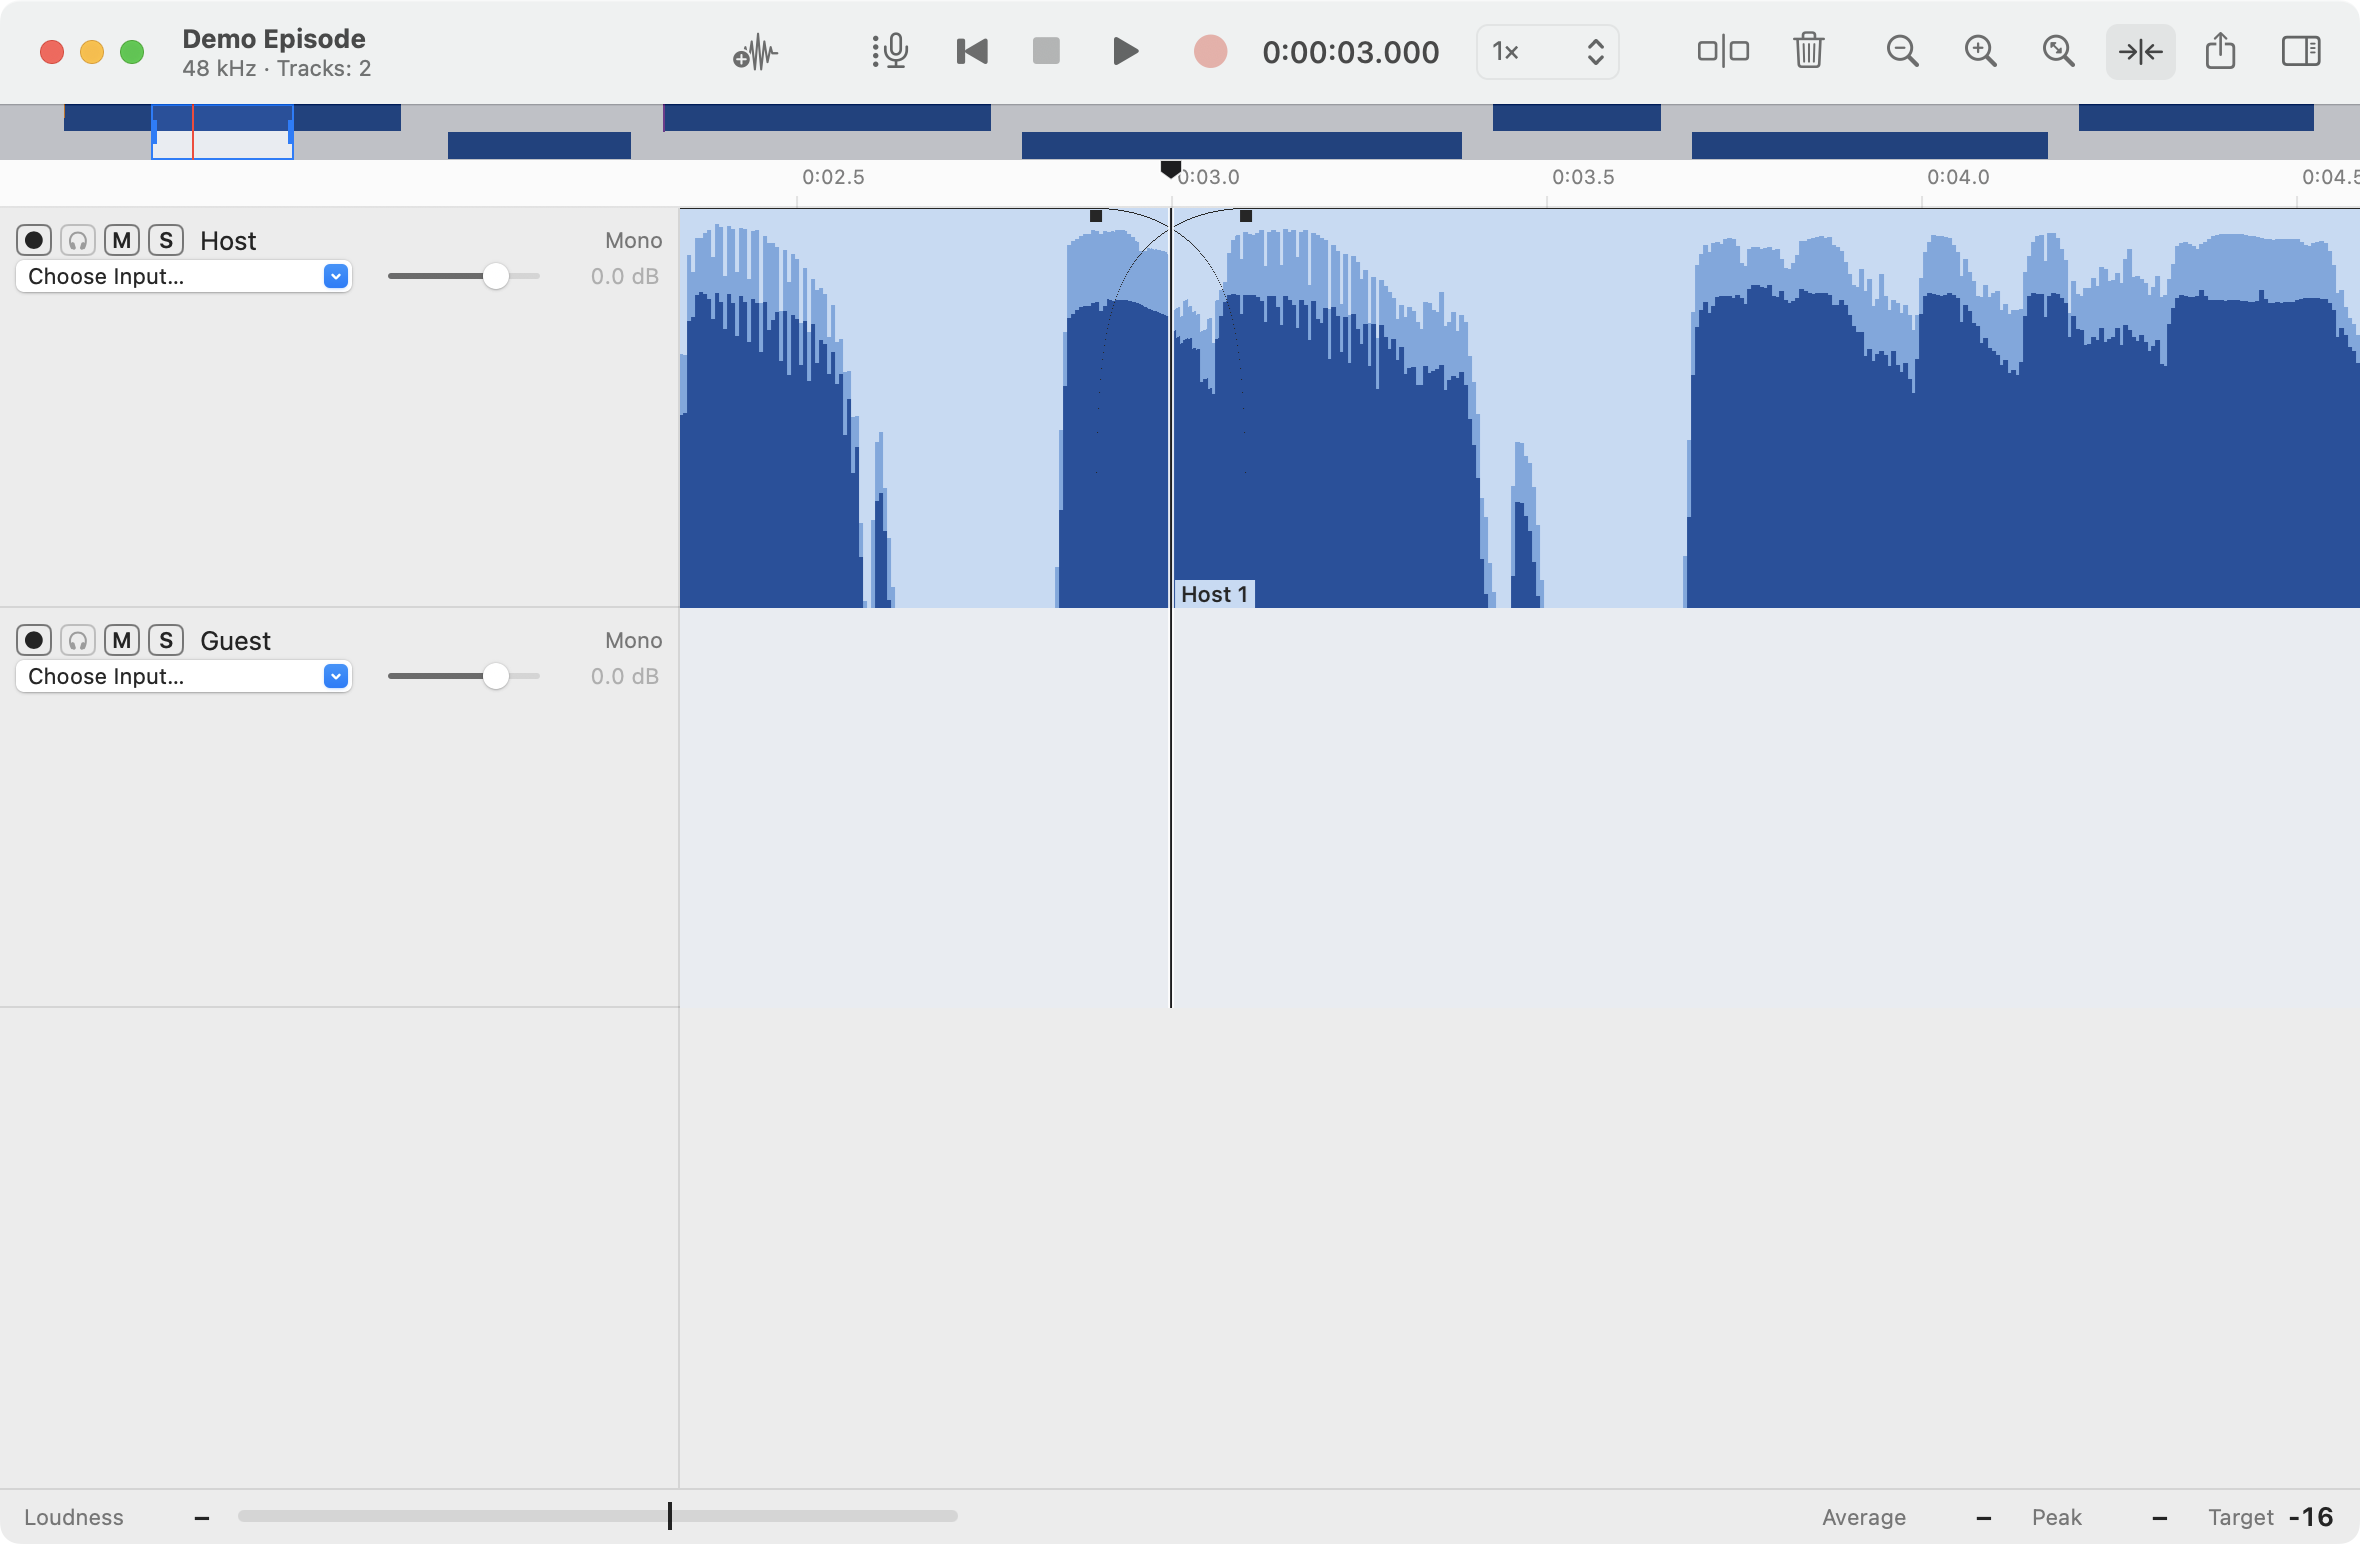
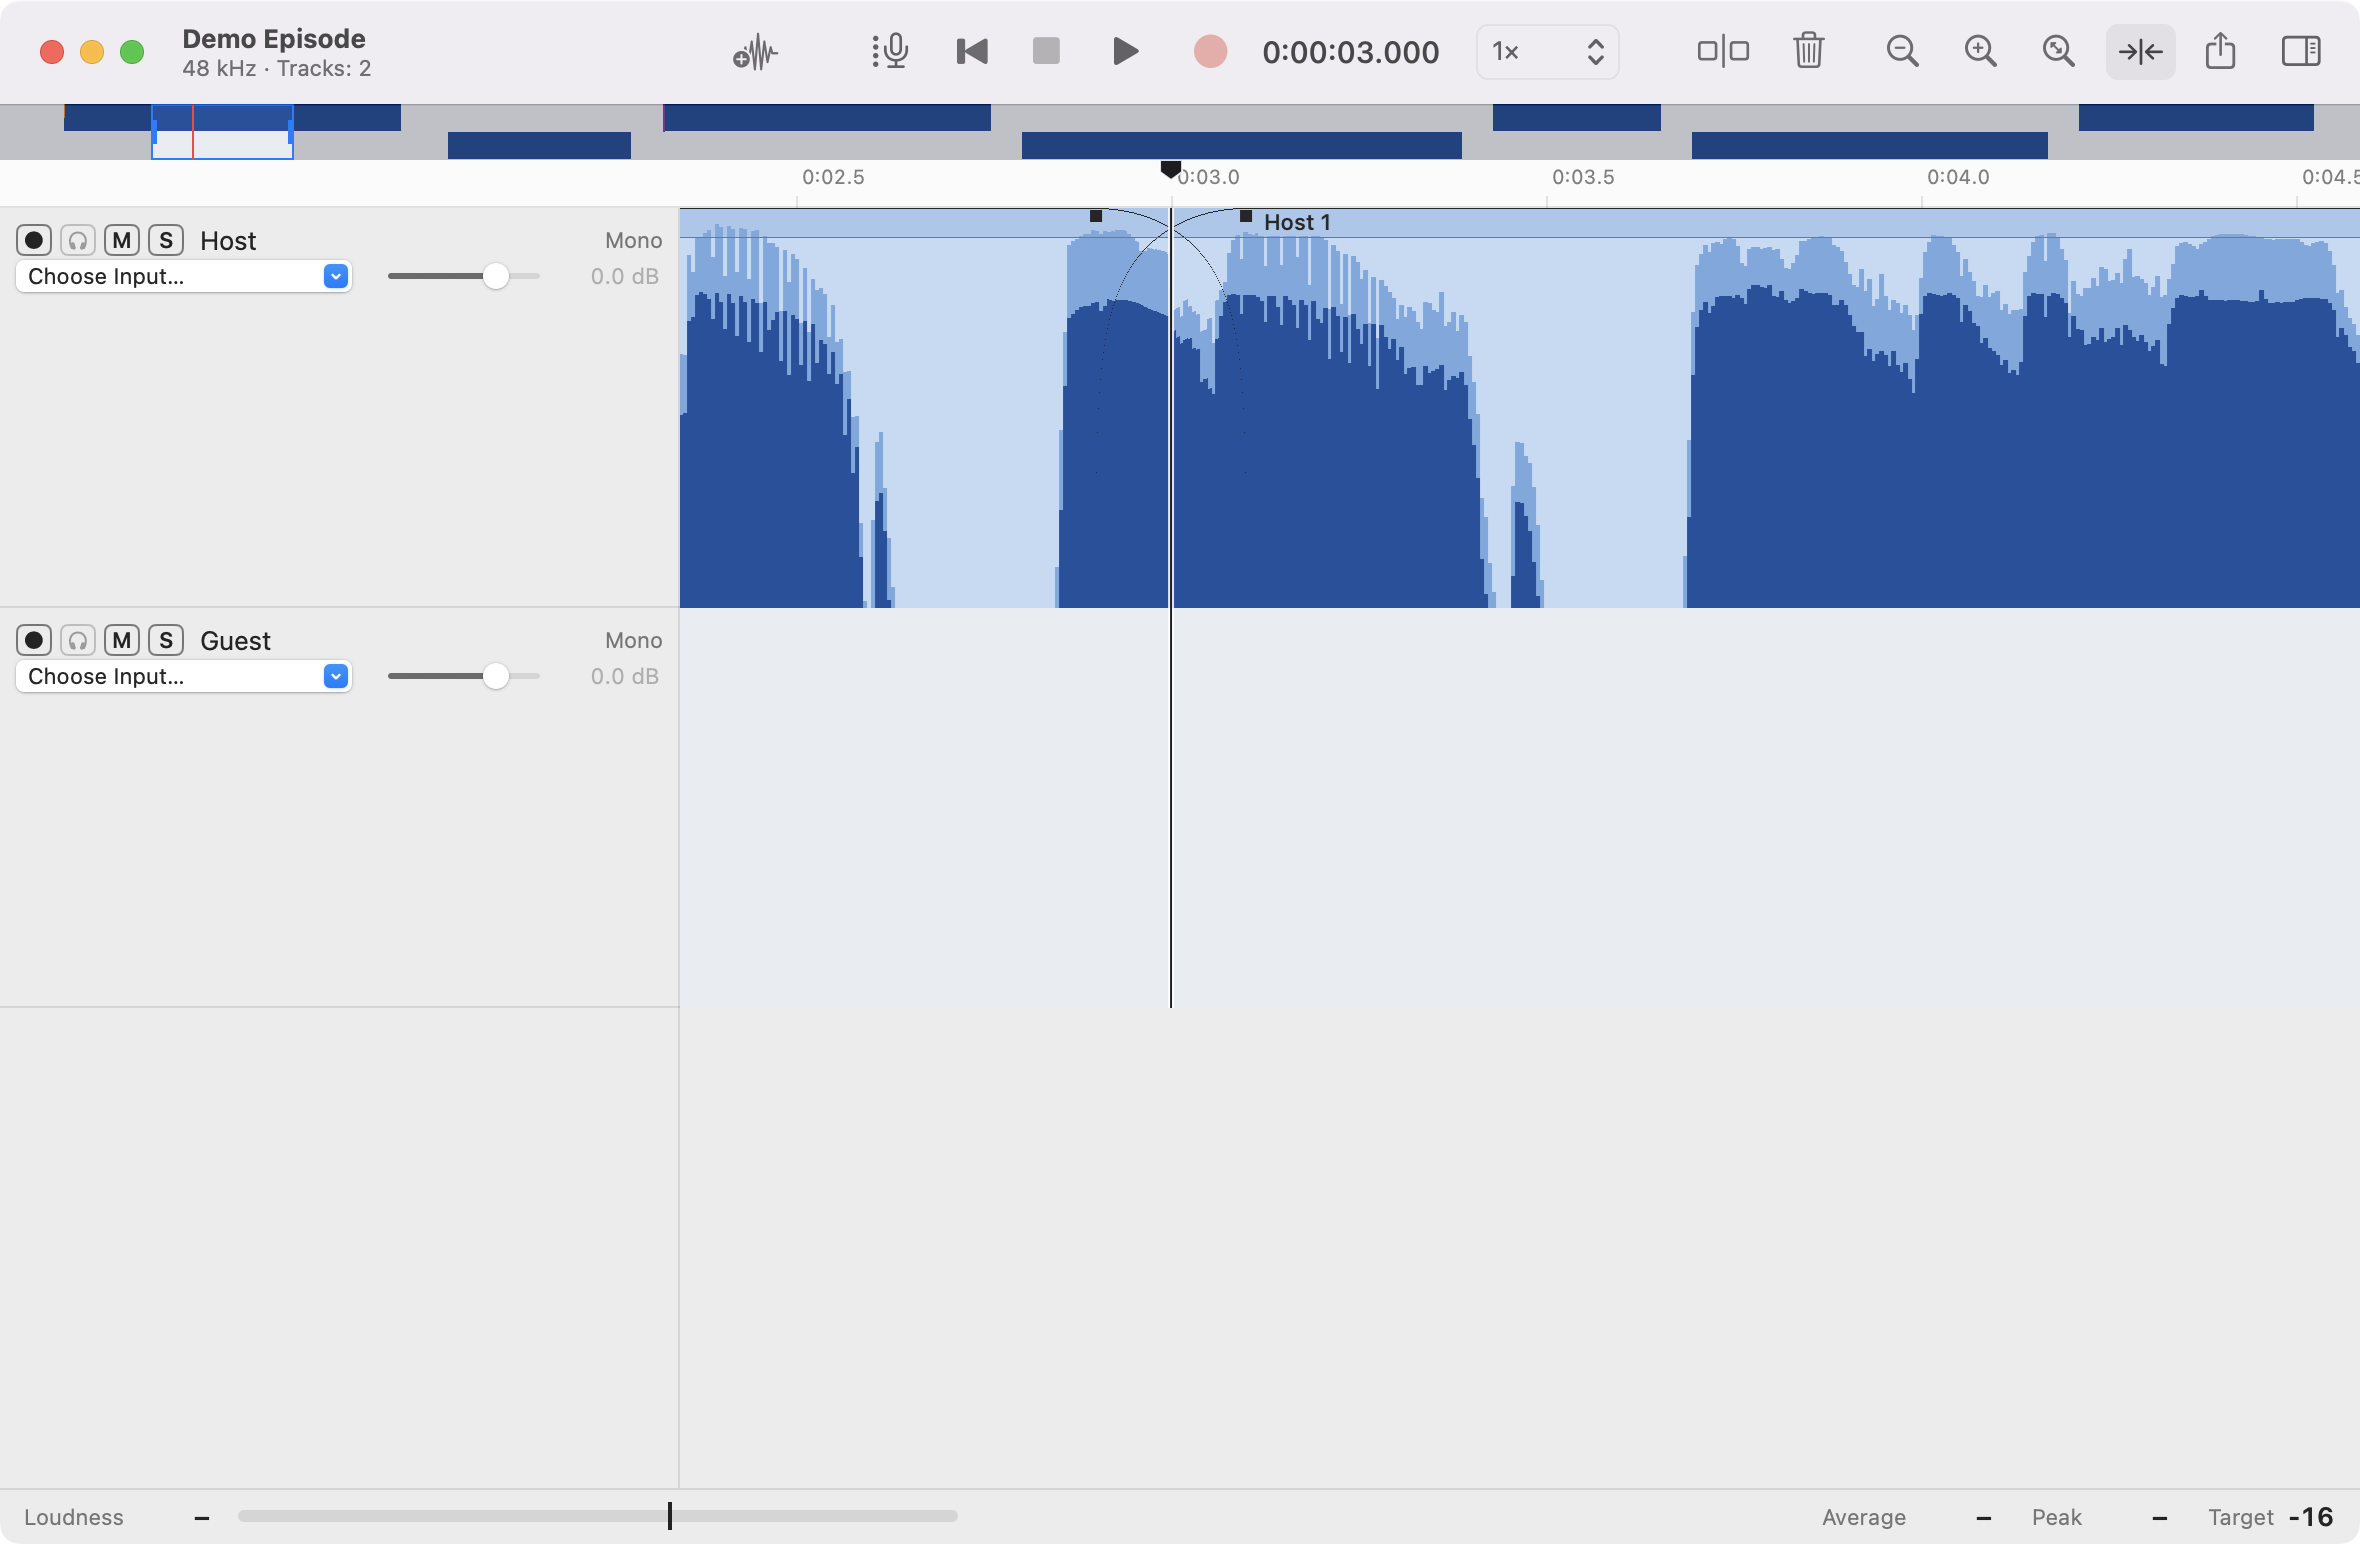
docs: describe the clip bar
The guide, decision 0017, and decision 0022 state the clip bar and the
place of the clip name. The five guide screenshots with clips show it.
screenshots.sh now presses the menu item Zoom In by role: the toolbar
button has the same title, so the press was not unique.

Changed region(s): [[0.2784, 0.1244, 1.0, 0.1554], [0.4949, 0.3731, 0.5568, 0.4041]]

diff --git a/docs/decisions/0022-timeline-lane-layer.md b/docs/decisions/0022-timeline-lane-layer.md
@@ -8,6 +8,7 @@
 - Amended: 2026-10-04, run 12 (see 0037): a ripple drag event copies the later region of the front shifted by the move, when `shiftedFrames` finds one move for every lane, the front shows the same window, the move is a whole number of columns, the Marks do not change and are left of both regions, and no other change waits for the draw. It draws the strip before that region, the marker lines that do not follow the move, and the columns that the shift shows at an edge. The shifted region counts as drawn in the history of the slots. The ruler keeps the typeset line of each text, because its text was half of a ruler draw.
 - Amended: 2026-10-11, run ui-polish-header: while the transport records, the live region draws in the live palette (red clip, peak, and RMS colors); the finalize draws the normal palette, so its pixels equal the clips after the hand-off. A clip label and the take label have a chip: the renderer draws no peak or RMS span there, and one draw builds the labels once for the renderer and the text pass. The trade-off: the chip (15 pt high, the label width) hides the waveform base under it, so a quiet passage there does not show; the label stays readable on the waveform.
 - Amended: 2026-10-21, run envelope-ducking: a clip with gain points draws each waveform column with the highest envelope gain of its frames, and its gain line with one row for each column, at least 3 pt under the lane top, with a 6 pt disc for each point that has room (decision 0060). `changedFrames` already marks the whole clip for a point change, because `Clip` equality has the envelope.
+- Amended: 2026-10-25, run `2026-10-16-timeline-clarity` (F156): the chip (14 pt high) sits at the box top, in the clip bar. It hides only the peak tops under it, and the waveform base shows.
 - Amends: 0017 (the Drawing paragraph), 0020 (the Budget paragraph and the dirty-rect consequence).
 
 ## Context

diff --git a/docs/decisions/0017-timeline-view.md b/docs/decisions/0017-timeline-view.md
@@ -20,6 +20,7 @@
 - Amended: 2026-10-17, run `2026-10-16-timeline-clarity` (F153). A lane counts as in view when half of its height or more shows. The record-over warning is a chip over the track headers (see 0023).
 - Amended: 2026-10-17, run `2026-10-16-timeline-clarity` (F154). A 2 pt join marks each cut between two clips. The playhead line is neutral, with a head on the ruler, and is red only as the record head of a take (**Joins and playhead**).
 - Amended: 2026-10-25, run `2026-10-16-timeline-clarity` (F155). A click on the upper part of a clip, the commit of a move or a trim, and a right-click on a clip outside the selection select the clip as a set of one clip, with no in point and no out point. The time area of the ruler seeks at the down, and a drag of 3 pt or more there makes a range from the press frame, on the header tracks, or on all tracks when none is selected. The up seeks to the in point. A Shift-click from a clip set goes from the playhead to the click, on the set tracks and the click track. A Shift-drag from a clip set extends the span of the set (see 0020 and 0038).
+- Amended: 2026-10-25, run `2026-10-16-timeline-clarity` (F156). A clip box of 60 pt or wider in a lane of 60 pt or taller has a bar at its top, in a darker clip color, with a 1 pt edge in its bottom row. The look follows the clip header of Audition ([AU-clips] in `docs/research/timeline-clarity.md`). The waveform, the controls, and the joins draw over the bar, and the edge draws over the waveform. The clip label sits at the box top, in the bar, between the fade handles. It starts 10 pt from the box start when the start handle is at rest. Its text has a hole at each envelope point. It never covers a fade handle.
 
 ## Context
 

diff --git a/docs/guide.md b/docs/guide.md
@@ -172,6 +172,7 @@ You can play the session faster or slower, and the voices keep their pitch. This
 - Choose **View > Zoom to Selection or Session** to show the selection. With no selection, it shows the whole session. Choose it again to go back to the view before.
 - Choose **View > Zoom Back** and **View > Zoom Forward** to go through the zoom history of the window.
 - Where two clips touch, a join of 2 points marks the cut on the track. The join shows when both clips are 12 points wide or wider on the screen, so zoom in to see the joins of short clips.
+- In a track that is 60 points or taller, each clip that is 60 points or wider has a darker bar at the top, with the clip name. A loud part of the waveform draws over the bar. The name never covers a fade handle or an envelope point.
 - Double-tap with two fingers on a trackpad for smart zoom. When the whole session is in view, smart zoom zooms in at the pointer. In other views, it shows the whole session.
 
 ### Use the Session overview
